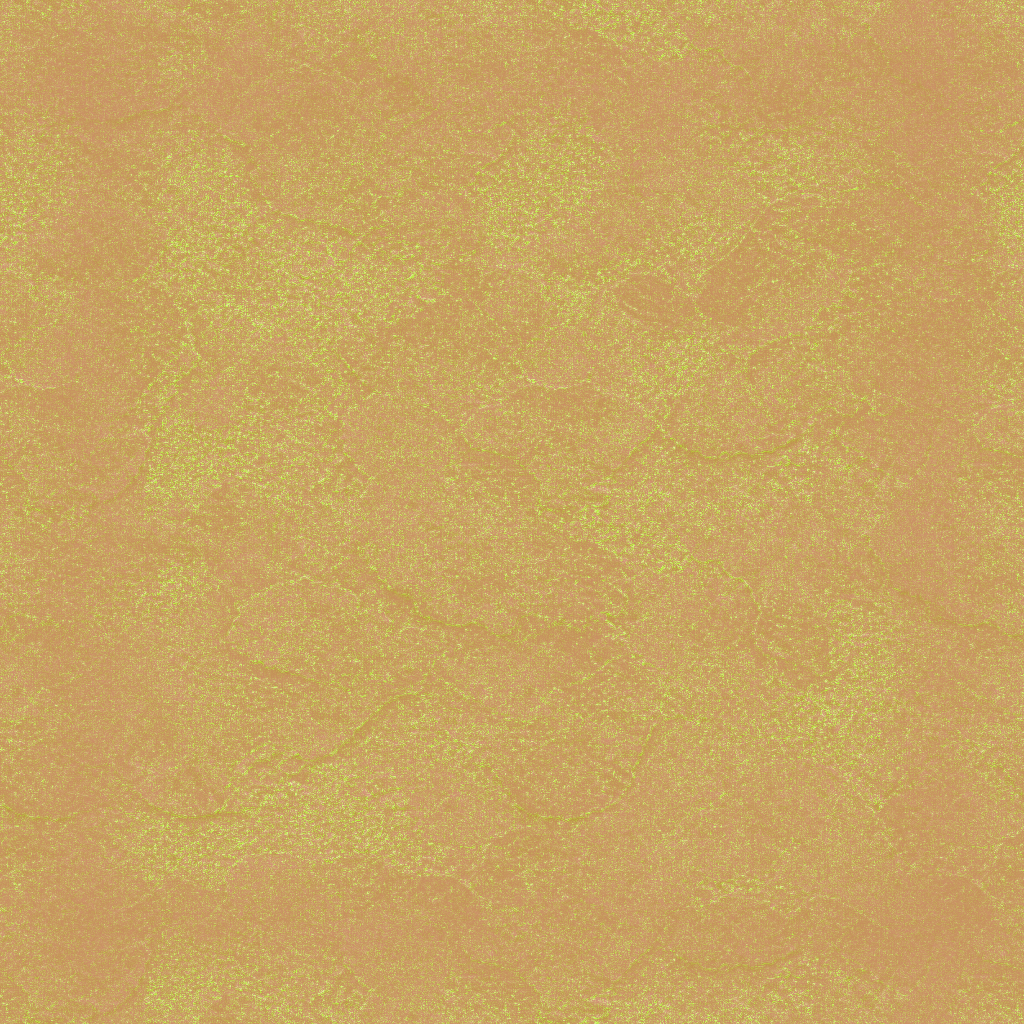
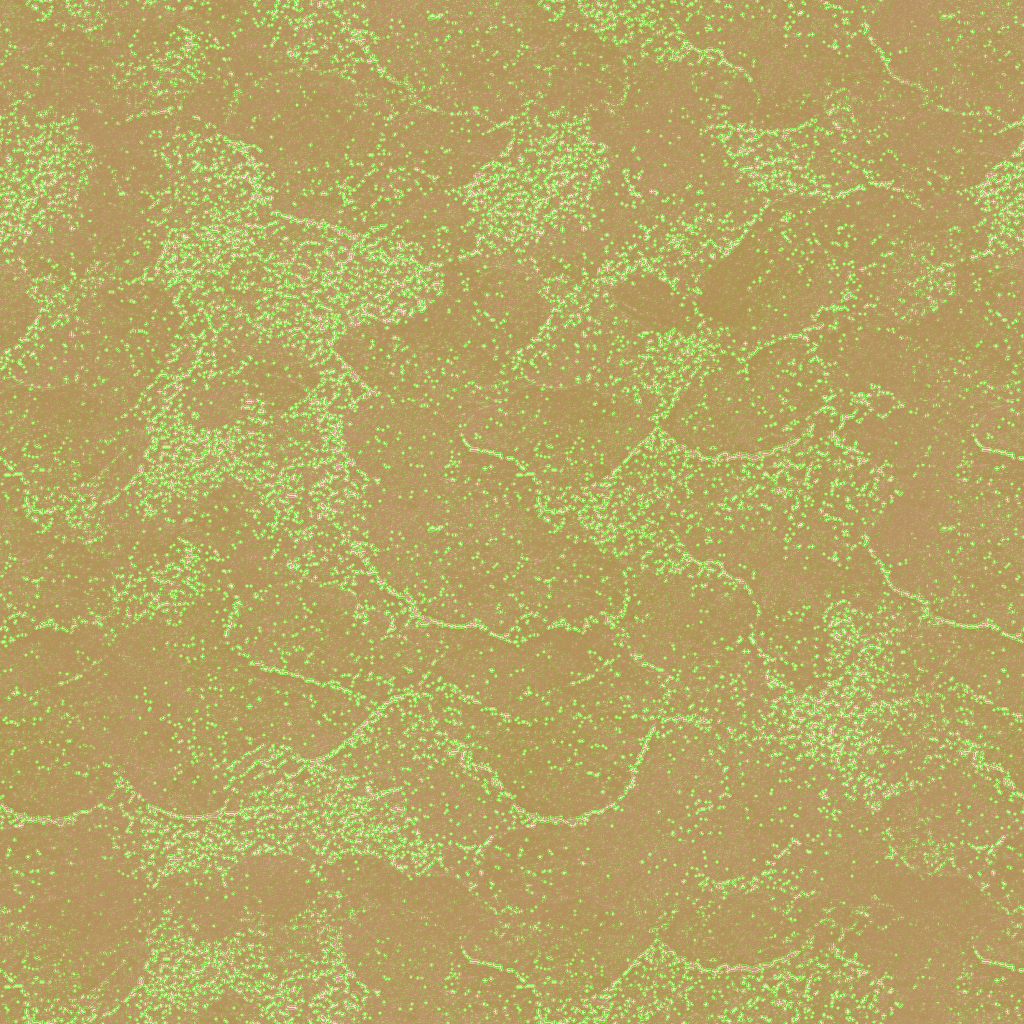
feat(editor): deepen rebuilt rock support maps

diff --git a/Assets/_Project/Scripts/Editor/TopDown3D/TopDown3DRockWorkbenchTextureBuilder.cs b/Assets/_Project/Scripts/Editor/TopDown3D/TopDown3DRockWorkbenchTextureBuilder.cs
@@ -53,8 +53,8 @@ namespace BooterBigArm.Editor
             try
             {
                 Directory.CreateDirectory(TextureRoot);
-                BuildSurfaceSet(topSource, TopAlbedoPath, TopNormalPath, TopSurfacePath, 3.8f, !topAlbedoExists);
-                BuildSurfaceSet(sideSource, SideAlbedoPath, SideNormalPath, SideSurfacePath, 4.6f, !sideAlbedoExists);
+                BuildSurfaceSet(topSource, TopAlbedoPath, TopNormalPath, TopSurfacePath, 5.2f, !topAlbedoExists);
+                BuildSurfaceSet(sideSource, SideAlbedoPath, SideNormalPath, SideSurfacePath, 6.4f, !sideAlbedoExists);
                 WriteTexture(CrackMaskPath, BuildCrackMask());
 
                 AssetDatabase.Refresh(ImportAssetOptions.ForceSynchronousImport);
@@ -79,7 +79,8 @@ namespace BooterBigArm.Editor
         [MenuItem("Tools/Booter & BigARM/Rock Workbench/Rebuild Side Grit Textures")]
         public static void GenerateGritTextures()
         {
-            var gritSource = LoadSource(GritSourcePath);
+            var gritAlbedoExists = File.Exists(GritAlbedoPath);
+            var gritSource = LoadSource(gritAlbedoExists ? GritAlbedoPath : GritSourcePath);
             if (gritSource == null)
             {
                 throw new InvalidOperationException(
@@ -94,8 +95,8 @@ namespace BooterBigArm.Editor
                     GritAlbedoPath,
                     GritNormalPath,
                     GritSurfacePath,
-                    7.2f,
-                    true);
+                    9.6f,
+                    !gritAlbedoExists);
                 AssetDatabase.Refresh(ImportAssetOptions.ForceSynchronousImport);
                 ConfigureAlbedo(GritAlbedoPath);
                 ConfigureNormal(GritNormalPath);
@@ -114,7 +115,9 @@ namespace BooterBigArm.Editor
         [MenuItem("Tools/Booter & BigARM/Rock Workbench/Rebuild Underside Shale Textures")]
         public static void GenerateUndersideTextures()
         {
-            var undersideSource = LoadSource(UndersideSourcePath);
+            var undersideAlbedoExists = File.Exists(UndersideAlbedoPath);
+            var undersideSource = LoadSource(
+                undersideAlbedoExists ? UndersideAlbedoPath : UndersideSourcePath);
             if (undersideSource == null)
             {
                 throw new InvalidOperationException(
@@ -129,8 +132,8 @@ namespace BooterBigArm.Editor
                     UndersideAlbedoPath,
                     UndersideNormalPath,
                     UndersideSurfacePath,
-                    8.4f,
-                    true);
+                    9.4f,
+                    !undersideAlbedoExists);
                 AssetDatabase.Refresh(ImportAssetOptions.ForceSynchronousImport);
                 ConfigureAlbedo(UndersideAlbedoPath);
                 ConfigureNormal(UndersideNormalPath);
@@ -205,8 +208,10 @@ namespace BooterBigArm.Editor
                         1f);
 
                     var neighborhood = (left + right + down + up) * 0.25f;
-                    var localDetail = Mathf.Clamp01(Mathf.Abs(height[index] - neighborhood) * 18f);
-                    var ao = Mathf.Lerp(0.68f, 1f, Mathf.SmoothStep(0f, 1f, height[index]));
+                    var localDetail = Mathf.Clamp01(Mathf.Abs(height[index] - neighborhood) * 22f);
+                    var cavity = Mathf.Clamp01((neighborhood - height[index]) * 14f);
+                    var ao = Mathf.Lerp(0.58f, 1f, Mathf.SmoothStep(0f, 1f, height[index]));
+                    ao *= Mathf.Lerp(1f, 0.72f, cavity);
                     var roughness = Mathf.Lerp(0.56f, 0.94f, localDetail);
                     surface[index] = new Color(ao, roughness, height[index], 1f);
                 }

diff --git a/Docs/ROCK_WORKBENCH_LAYERED_MATERIAL.md b/Docs/ROCK_WORKBENCH_LAYERED_MATERIAL.md
@@ -37,15 +37,15 @@ Layered textures live under:
 
 - `Assets/_Project/Art/Environment/Rocks/Workbench/Layered/`
 
-The `Source/` images are project-owned AI-generated albedo sources. The current top and side albedos are treated as artist-owned inputs; rebuilding derived maps does not replace those albedos. Their aligned normal and packed surface maps are rebuilt by:
+The `Source/` images are project-owned AI-generated starting points. Every current layered albedo is treated as an artist-owned input; rebuilding derived maps does not replace an existing albedo. Normal depth and cavity occlusion are derived from the current edited pixels. The top and side support maps are rebuilt by:
 
 - `Tools > Booter & BigARM > Rock Workbench > Rebuild Layered Textures`
 
-The independent grit albedo, normal, and packed surface set is rebuilt without touching the top or side textures by:
+The independent grit support maps are rebuilt from the current grit albedo without replacing it or touching the top and side textures by:
 
 - `Tools > Booter & BigARM > Rock Workbench > Rebuild Side Grit Textures`
 
-The independent underside shale set is rebuilt without touching any other layer by:
+The independent underside support maps are rebuilt from the current underside albedo without replacing it or touching any other layer by:
 
 - `Tools > Booter & BigARM > Rock Workbench > Rebuild Underside Shale Textures`
 
